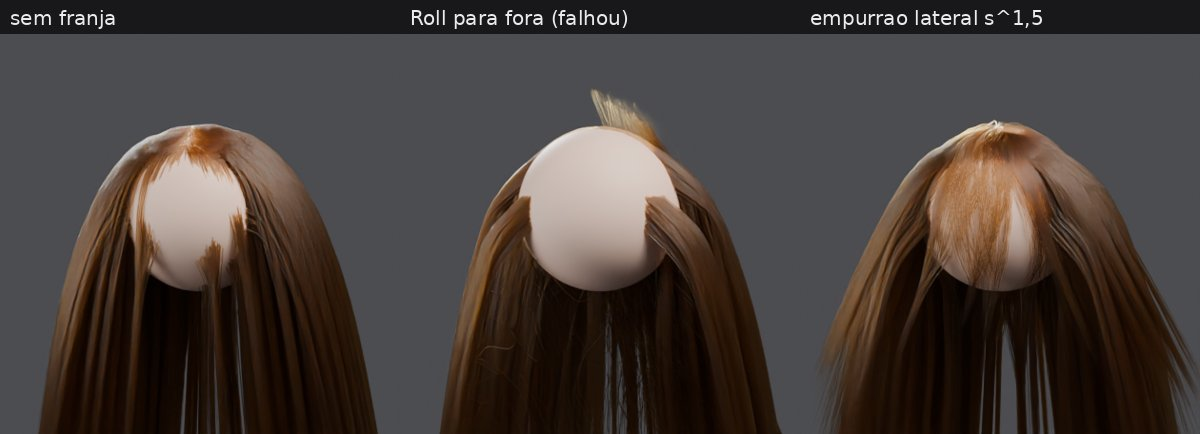
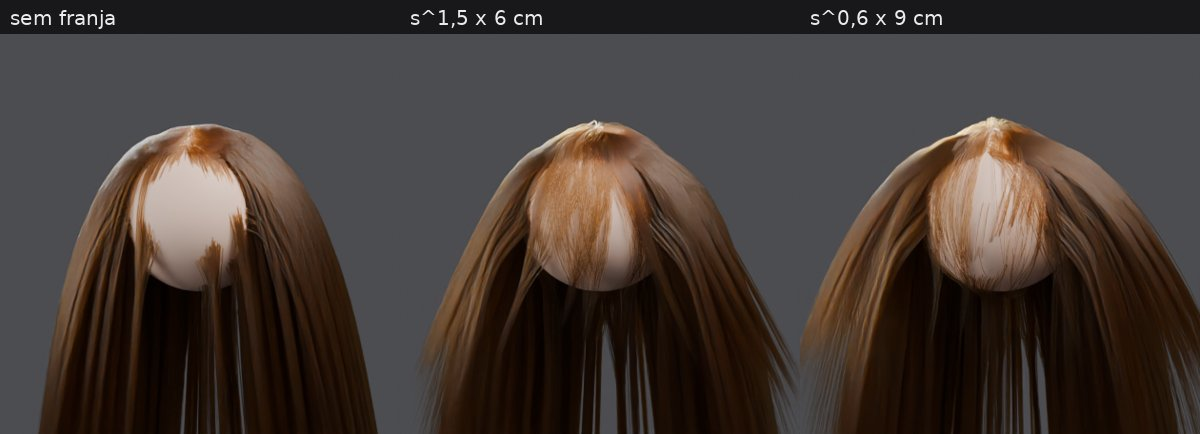
Laboratorio: segunda tentativa da franja cortina registrada
Claude-Session: https://claude.ai/code/session_01X2WLpJ3ZerMyfhQCw5D11G

diff --git a/Estudos Extras Curriculares/Blender Hair Geometry Nodes/laboratorio/scripts/r106_cortina.py b/Estudos Extras Curriculares/Blender Hair Geometry Nodes/laboratorio/scripts/r106_cortina.py
@@ -24,9 +24,9 @@ if V == "cortina":
     # abre para os lados: offset lateral = sign(x raiz) * s^2 * 5 cm * mascara, e um pouco para tras
     cr = t.add('GeometryNodeGroup', group=EG['Curve Root']); sx = t.add('ShaderNodeSeparateXYZ'); t.link(cr.outputs['Root Position'], sx.inputs[0])
     sg = t.add('ShaderNodeMath', props={'operation':'SIGN'}); t.link(sx.outputs['X'], sg.inputs[0])
-    sp = t.add('GeometryNodeSplineParameter'); s2 = t.add('ShaderNodeMath', props={'operation':'POWER'}); t.link(sp.outputs['Factor'], s2.inputs[0]); s2.inputs[1].default_value = 1.5
+    sp = t.add('GeometryNodeSplineParameter'); s2 = t.add('ShaderNodeMath', props={'operation':'POWER'}); t.link(sp.outputs['Factor'], s2.inputs[0]); s2.inputs[1].default_value = 0.6
     k = t.add('ShaderNodeMath', props={'operation':'MULTIPLY'}); t.link(s2.outputs[0], k.inputs[0]); t.link(mk.outputs[0], k.inputs[1])
-    vx = t.add('ShaderNodeMath', props={'operation':'MULTIPLY'}); t.link(sg.outputs[0], vx.inputs[0]); vx.inputs[1].default_value = 0.06
+    vx = t.add('ShaderNodeMath', props={'operation':'MULTIPLY'}); t.link(sg.outputs[0], vx.inputs[0]); vx.inputs[1].default_value = 0.09
     cb = t.add('ShaderNodeCombineXYZ'); t.link(vx.outputs[0], cb.inputs['X']); cb.inputs['Y'].default_value = 0.015
     of = t.add('ShaderNodeVectorMath', props={'operation':'SCALE'}); t.link(cb.outputs[0], of.inputs[0]); t.link(k.outputs[0], of.inputs['Scale'])
     stp = t.add('GeometryNodeSetPosition'); t.link(tr.outputs[0], stp.inputs['Geometry']); t.link(of.outputs[0], stp.inputs['Offset'])

diff --git a/Estudos Extras Curriculares/_referencia/grooming/CEREBRO_GROOMING.md b/Estudos Extras Curriculares/_referencia/grooming/CEREBRO_GROOMING.md
@@ -2736,5 +2736,6 @@ na máscara → abrir para os lados.
 | Offset = sinal(X da raiz) × s^1,5 × 6 cm × máscara, + Shrinkwrap | a franja aparece e cobre a testa, mas o "V" da cortina ainda é fraco |
 
 Para a cortina de verdade faltam: risca no meio (scalp em duas ilhas, 17.13)
-e o empurrão lateral crescer mais cedo no fio (expoente menor ou
-amplitude maior). Não resolvido nesta sessão.
+e o empurrão lateral crescer mais cedo no fio. Testado s^0,6 × 9 cm: abre
+um pouco mais no centro, mas a franja fica rala e sem o "V" limpo. Não
+resolvido nesta sessão; o próximo passo é a risca em duas ilhas.
